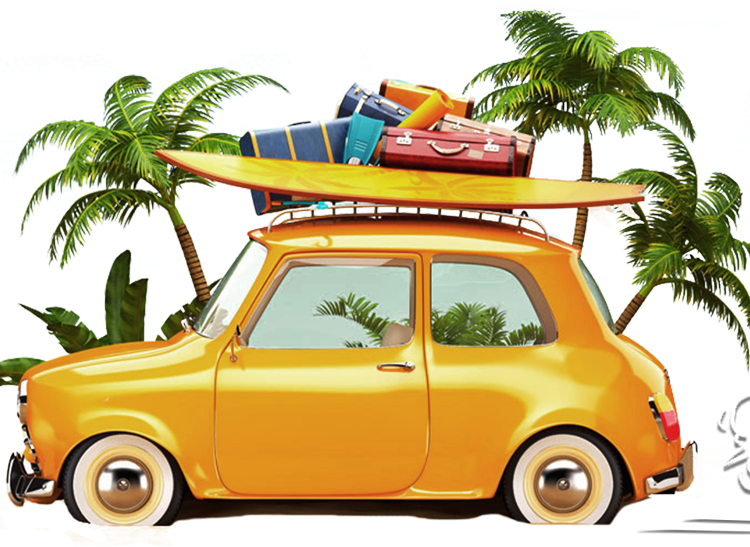
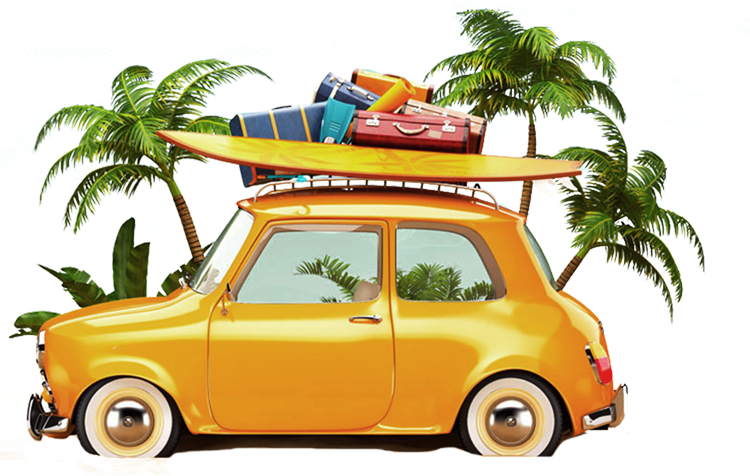
分销动画优化

diff --git a/kake/frontend/less/distribution/index.less b/kake/frontend/less/distribution/index.less
@@ -2,97 +2,122 @@
 .body {
     margin-bottom: 50px;
     background: #fff;
+    padding:0;
+    overflow: hidden;
 }
 .distri_panel{
     .distri_ani{
-        .ani-bg{
-            position: absolute;
-            width:100%;
+        .content{
+            width: 100%;
+            height: 100%;
+            top:0;
+            z-index: -1; 
+            position: relative;
+            img{
+                display: block;
+                outline: none;
+                border:0;
+                height: 100%;
+                width: 100%;
+            }
         }
         .people{
-            position: relative;
+            position: absolute;
             width: 254px;
-            top: 50%;
-            left: 36%;
-            z-index: 12;
-            transform: translate(-50%,85%);
-            animation:fadeInOutPeople 5s ease-in;
+            left: 20%;
+            bottom: 60px;
+            display: none;
         }
-        .car{
-            position: relative;
+        
+        @keyframes halo {
+            0%, 100% {
+                transform: rotate(-20deg);
+            }
+            50% {
+                transform: rotate(20deg);
+            }
+        }
+        
+        .halo{
+            position: absolute;
             width: 375px;
-            top: 50%;
-            left: 146%;
-            transform: translate(-50%,0%);
-            z-index: 13;
-            -webkit-animation:car2_drive 6s ease-in;
+            top: 0px;
+            z-index: 2;
+            overflow: hidden;
+            transform-origin: 98% 2%;
+            transform: rotate(-20deg);
+            animation: halo 6s infinite ease-in-out;
         }
-         @-webkit-keyframes fadeInOutPeople {
-            0%,40% {
-                opacity: 0;
-             }
-            //下车
-            42%{
-                opacity: 0;
+        .box-false{
+            position: absolute;
+            bottom: 30px;
+            right: -400px;
+            width: 375px;
+            height: 200px;
+            z-index: 666;
+            .an-brake {
+                transform-origin: 50% 100%;
+                animation: an-brake .5s ease-in-out;
             }
-            52%{
-                opacity: 0.7;
+            @keyframes an-brake {
+                10%, 60% {
+                    transform: skewX(15deg);
+                }
+                0%, 100% {
+                    transform: skewX(0deg);
+                }
             }
-            62%{
-                opacity: 0.8;
-            }
-            72%{
-                opacity: 0.9;
-            }
-            82%{
-                opacity: 0.9;
-            }
-            92%{
-                opacity: 1;
-            }
-            100%{
-                opacity: 1;
+            .box {
+                position: relative;
+                width: 100%;
+                height: 100%;
+                z-index: 888;
+                img.car {
+                    position: absolute;
+                    width: 400px;
+                    left: 0;
+                    bottom: 0;
+                    z-index: 222;
+                }
+                 img.gas {
+                    position: absolute;
+                    width: 80px;
+                    right: -25px;
+                    bottom: 4px;
+                }
+                img.an-gas {
+                    animation: an-gas .2s infinite ease-in-out;
+                }
+                @keyframes an-gas {
+                    0% {
+                        transform: translate(-25px, 15px) scale(0)
+                    }
+                    100% {
+                        transform: translate(5px, 0px) scale(1)
+                    }
+                }
             }
         }
-        @-webkit-keyframes carBody_shake{
-            0%,16%,18.3%,100%{
-                top:0;
-            }
-            17.4%{
-                top:8px;
-            }
-        }
-        @-webkit-keyframes car2_drive{
-            0%,10%{
-            }
-            
-            //停顿
-            20%,55%{
-                left:200px;
-            }
-            //开走
-            70%,100%{
-                left:-200px;
-            }
-        }
-        .crab{
-            position: relative;
-            width: 56px;
-            top: 50%;
-            left: 50%;
-            transform: translate(-50%,0%);
-            z-index: 3;
-        }
-        .r-leef{
-            position: relative;
-            width: 56px;
-            float: right;
-        }
-        .l-leef{
-            position: relative;
-            width: 56px;
-            margin-top: -40px;
-        }
+        .an-shake {
+                    animation: an-shake .1s infinite ease-in-out;
+                }
+                @keyframes an-shake {
+                    0%, 100% {
+                        transform: translate(1px, 0px) rotate(0deg)
+                    }
+                    20% {
+                        transform: translate(-2px, -2px) rotate(0.2deg)
+                    }
+                    40% {
+                        transform: translate(-2px, 1px) rotate(-0.1deg)
+                    }
+                    60% {
+                        transform: translate(-1px, 2px) rotate(-0.2deg)
+                    }
+                    80% {
+                        transform: translate(0px, 2px) rotate(0.1deg)
+                    }
+                }
     }
     .distri_content{
         animation:fadeInBox 1s ease-in-out;
@@ -182,7 +207,6 @@
                             img{
                             z-index: 26;
                             width: 83px;
-                          //  margin: -61px 0 0 220px;
                             margin:-8px 0 0 -120px;
                             position: absolute;
                             }
@@ -292,7 +316,6 @@
                                     top: 54px;
                                 }
                             }
-                        
                         }
                 }
             } 

diff --git a/kake/frontend/js/distribution/index.js b/kake/frontend/js/distribution/index.js
@@ -5,10 +5,142 @@ app.controller('distribution', ['$scope', '$controller', '$timeout', function ($
 
 	$controller('generic', {$scope: $scope});
 	
+	$scope.Car = function (car, direction, cls) {
+
+        this.target = car;
+        this.direction = direction || 'right';
+
+        cls = cls || {};
+        this.boxEntity = this.target.find('.' + (cls.box || 'box'));
+        this.carEntity = this.boxEntity.find('.' + (cls.car || 'car'));
+        this.gasEntity = this.boxEntity.find('.' + (cls.gas || 'gas'));
+
+        this.anIgnition = cls.anIgnition || 'an-shake';
+        this.anGas = cls.anGas || 'an-gas';
+        this.anBrake = cls.anBrake || 'an-brake';
+
+        var that = this;
+
+        // 点火
+        this.ignition = function (time) {
+            var deferred = new $.Deferred();
+
+            this.target.addClass(this.anIgnition);
+            this.gasEntity.addClass(this.anGas);
+
+            setTimeout(function () {
+                that.target.removeClass(that.anIgnition);
+                that.gasEntity.removeClass(that.anGas);
+                deferred.resolve();
+            }, time);
+            
+            return deferred.promise();
+        };
+
+        // 移动
+        this.move = function (distance, time) {
+            var deferred = new $.Deferred();
+
+            time = time || 2000;
+
+            var css = {};
+            css[this.direction] = distance;
+            this.target.animate(css, time, 'linear', function() {
+                deferred.resolve();
+            });
+
+            return deferred.promise();
+        };
+
+        // 加速
+        this.speedUp = function (distance, begin, end, framesPx) {
+            var deferred = new $.Deferred();
+
+            var frames = 200;
+            framesTime = 10000 / frames;
+            var now = parseInt(this.target.css(this.direction));
+            if (now >= parseInt(distance)) {
+                deferred.resolve();
+            } else {
+
+                framesPx = framesPx || ((distance - now) / frames);
+                begin = framesPx + begin;
+                if (begin >= end) {
+                    begin = end;
+                }
+
+                var css = {};
+                css[this.direction] = now + begin;
+
+                this.move(now + begin, framesTime).then(function () {
+                    return that.speedUp(distance, begin, end, framesPx);
+                }).then(function () {
+                    deferred.resolve();
+                });
+            }
+
+            return deferred.promise();
+        };
+
+        // 刹车
+        this.brake = function (distance, time) {
+            var deferred = new $.Deferred();
+
+            this.boxEntity.addClass(this.anBrake);
+            this.move(distance, time).then(function() {
+                setTimeout(function () {
+                    that.boxEntity.removeClass(that.anBrake);
+                    deferred.resolve();
+                }, 500);
+            });
+
+            return deferred.promise();
+        };
+
+        // 停车事宜
+        this.stop = function (time) {
+            var deferred = new $.Deferred();
+
+            setTimeout(function() {
+                deferred.resolve();
+            }, time);
+
+            return deferred.promise(); 
+        };
+
+        // 睡眠
+        this.sleep = function (time) {
+            var start = new Date();
+            while(new Date() - start < time) {}
+        };
+    };
+	
 	$scope.service.imageLoaded($('.distri_ani'), function() {
-		$scope.isShowAni = true;
-		$timeout(function(){
-			$scope.isShowAni = false ;
-		},5000);
+		
+		var car = new $scope.Car($('.box-false'));
+		car.sleep(1500);
+        car.move(-60, 300).then(function() {
+            return car.brake(-10, 200);
+        }).then(function () {
+            console.log('车将停留 3 秒...');
+            $('.people').fadeIn(1500);
+            console.log('请游客下车');
+            return car.stop(3000);
+        }).then(function() {
+            console.log('点火');
+            return car.ignition(500);
+        }).then(function () {
+            console.log('车已启动');
+            return car.speedUp(1500, 0, 300);
+        }).then(function() {
+            console.log('车已经离开...');
+            car.sleep(1200);
+            var o = $(".distri_ani").fadeOut().promise();
+            o.done(function() {
+            		$(this).remove();
+            		$('.distri_content').removeClass('hidden').fadeIn(500);
+            });
+        });
 	});
+	
 }]);
